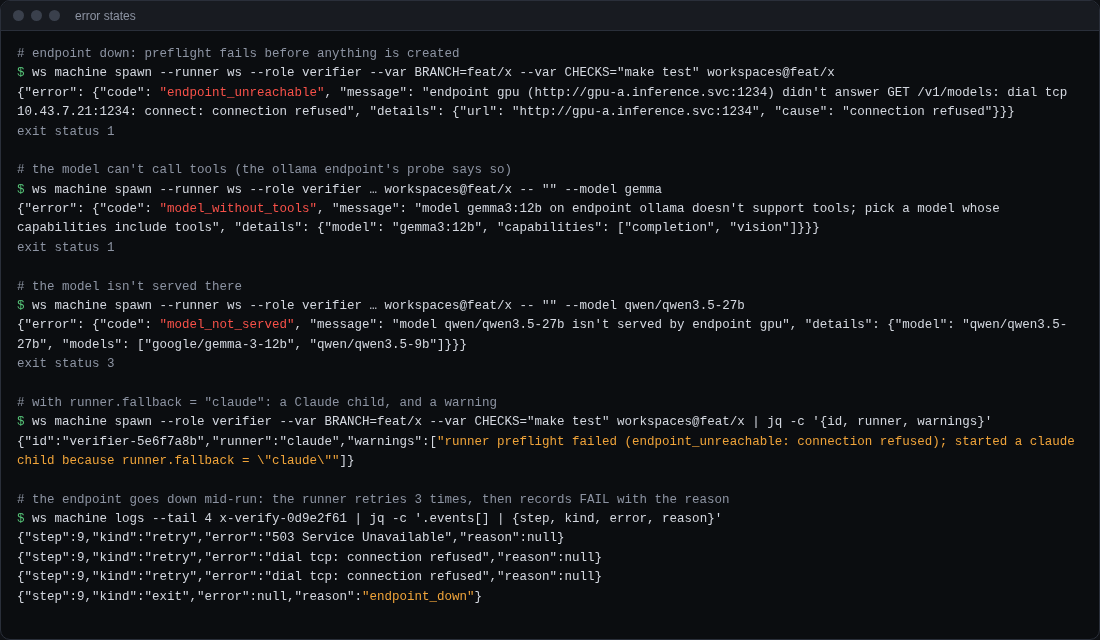
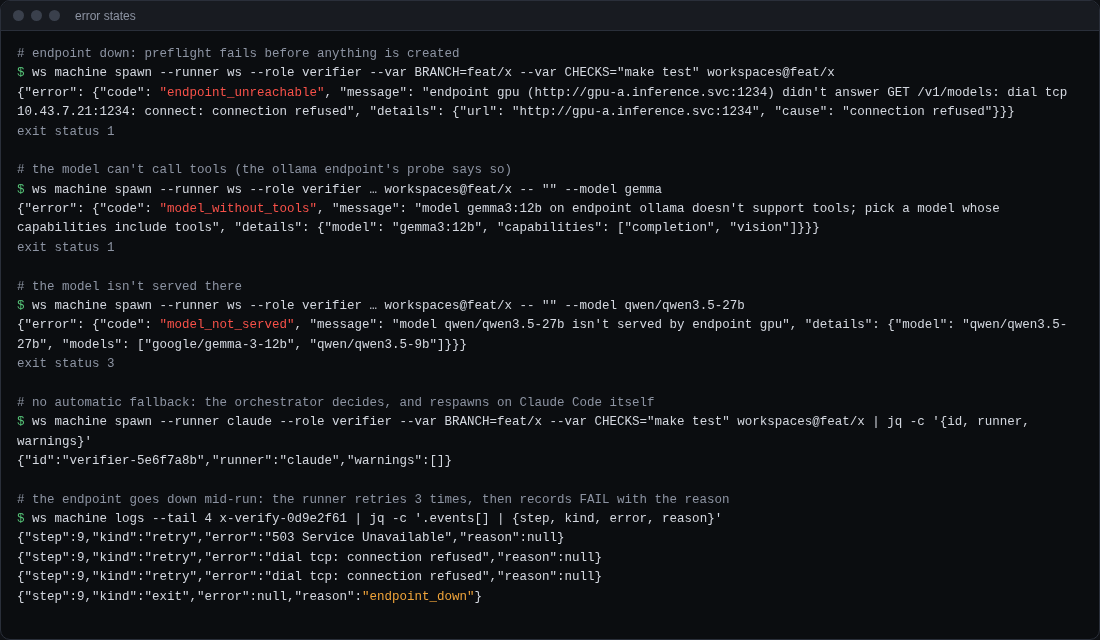
docs: drop the fallback from the mockups and re-render their screens

Changed region(s): [[0.0, 0.625, 0.9273, 0.75]]

diff --git a/docs/design/ollama-agent/mockups.html b/docs/design/ollama-agent/mockups.html
@@ -240,9 +240,9 @@ The model called run {"command":"go test ./internal/config/"} 5 times in a row w
 {"error": {"code": <span class="e">"model_not_served"</span>, "message": "model qwen/qwen3.5-27b isn't served by endpoint gpu", "details": {"model": "qwen/qwen3.5-27b", "models": ["google/gemma-3-12b", "qwen/qwen3.5-9b"]}}}
 <span class="c">exit status 3</span>
 
-<span class="c"># with runner.fallback = "claude": a Claude child, and a warning</span>
-<span class="p">$</span> ws machine spawn --role verifier --var BRANCH=feat/x --var CHECKS="make test" workspaces@feat/x | jq -c '{id, runner, warnings}'
-{"id":"verifier-5e6f7a8b","runner":"claude","warnings":[<span class="w">"runner preflight failed (endpoint_unreachable: connection refused); started a claude child because runner.fallback = \"claude\""</span>]}
+<span class="c"># no automatic fallback: the orchestrator decides, and respawns on Claude Code itself</span>
+<span class="p">$</span> ws machine spawn --runner claude --role verifier --var BRANCH=feat/x --var CHECKS="make test" workspaces@feat/x | jq -c '{id, runner, warnings}'
+{"id":"verifier-5e6f7a8b","runner":"claude","warnings":[]}
 
 <span class="c"># the endpoint goes down mid-run: the runner retries 3 times, then records FAIL with the reason</span>
 <span class="p">$</span> ws machine logs --tail 4 x-verify-0d9e2f61 | jq -c '.events[] | {step, kind, error, reason}'
@@ -438,7 +438,7 @@ const settingsModels = (errors) => `
 <div class="meta">Models for agents on the ws runner (any OpenAI-compatible server now; Ollama native next). Saved to <span class="mono">config.toml</span> with <span class="mono">ws config</span>; tokens to <span class="mono">secrets.env</span>.</div></section>
 <div class="content" style="max-width:980px">
 ${errors ? `
-<div class="alert err"><span class="ico err">!</span><div><b>gpu is unreachable.</b> GET http://gpu-a.inference.svc:1234/v1/models: dial tcp 10.43.7.21:1234: connect: connection refused. New agents that use it fail with <span class="mono">endpoint_unreachable</span> until it answers. Fallback is off, so no Claude child is started instead.</div><span class="spacer"></span><button class="btn small">Test again</button></div>
+<div class="alert err"><span class="ico err">!</span><div><b>gpu is unreachable.</b> GET http://gpu-a.inference.svc:1234/v1/models: dial tcp 10.43.7.21:1234: connect: connection refused. New agents that use it fail with <span class="mono">endpoint_unreachable</span> until it answers.</div><span class="spacer"></span><button class="btn small">Test again</button></div>
 <div class="alert warn"><span class="ico warn">!</span><div><b>gemma3:12b on ollama doesn't support tools.</b> Its probe says <span class="mono">completion, vision</span>. Agents that use the alias <span class="mono">gemma</span> fail with <span class="mono">model_without_tools</span>; point it at a model that can call tools.</div></div>` : ""}
 ${serviceCard(errors)}
 ${endpointsCard(errors)}
@@ -453,7 +453,6 @@ ${errors ? "" : `
 </div>
 <div class="alert info" style="margin-top:12px"><span class="ico info">i</span><div>2 models · <span class="mono">qwen/qwen3.5-9b</span> is served · no probe, so tool support and the context length aren't checked: <span class="mono">context_tokens</span> must match the server's load setting</div></div>
 </div></div>`}
-<div class="setRow" style="padding:4px 0"><div class="lbl"><div>Fall back to Claude</div><div class="muted">When an endpoint is down or a model can't call tools, start a Claude child instead of failing the spawn.</div></div><div><span class="switch"></span></div></div>
 <div class="card"><div class="cardHead">Roles</div><div class="cardBody" style="padding:4px 4px"><table>
   <colgroup><col style="width:140px"><col style="width:120px"><col style="width:200px"><col style="width:170px"><col></colgroup>
   <tr><th>Role</th><th>Runner</th><th>Model on the ws runner</th><th>MCP servers</th><th>Budget</th></tr>

diff --git a/docs/design/ollama-agent/README.md b/docs/design/ollama-agent/README.md
@@ -864,7 +864,7 @@ Fake data only. Rendered from [mockups.html](mockups.html) with headless
 Chromium (Playwright `playwright-core` 1.56.1, the `chromium_headless_shell`
 build 1255) at device scale 1, one screenshot per `#<screen>` hash of the
 screen's element: app screens 1280 wide and 800 high, except the two
-Settings › Models screens, which grow to fit their tables (1297 and 1121
+Settings › Models screens, which grow to fit their tables (1217 and 1041
 high); terminal screens 1100 wide, as high as their content.
 
 | Screen | File |
